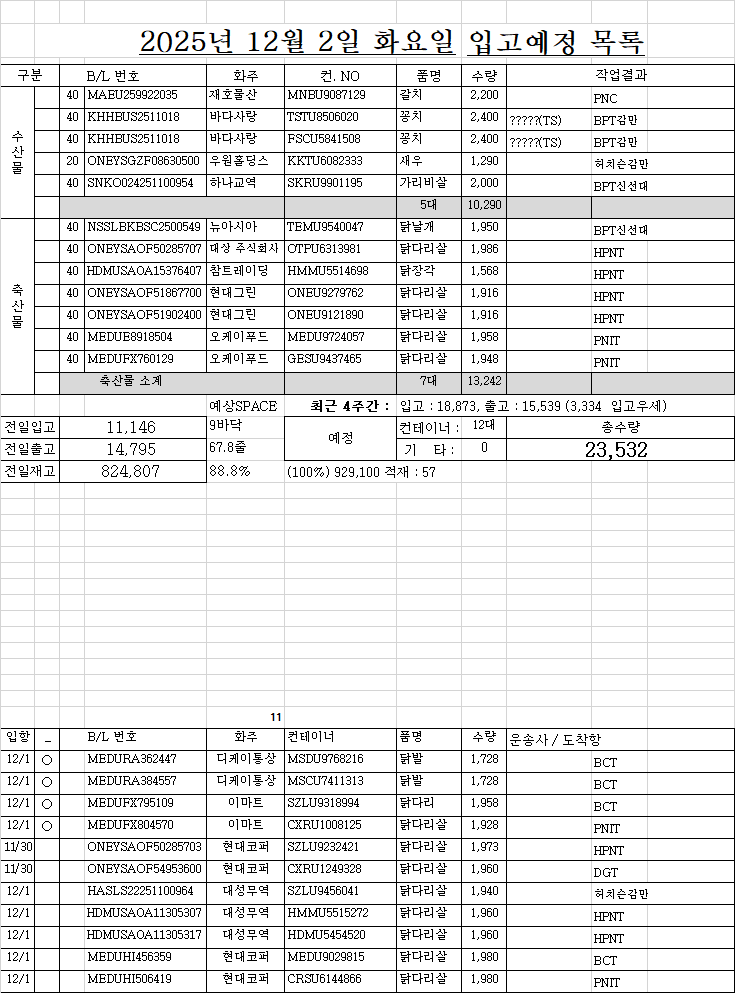
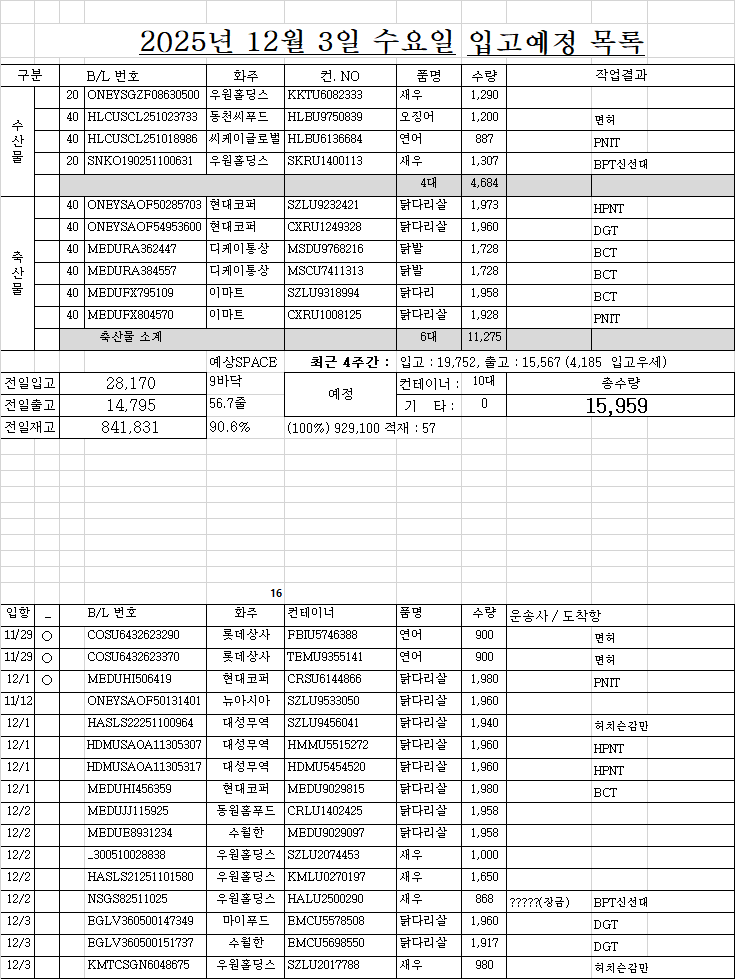
SDFSDFSD

diff --git a/list.html b/list.html
@@ -128,48 +128,49 @@
 </div>
 <!-- ★★★★★★ 따로 빼 놔야한다. 복붙하면 첫칸 비어도 되는데, 여기서는 첫칸비우면 당겨진다. -->
 <!-- ★ 엑셀범위를 브라우저 textarea에 붙여넣으면 첫셀 비어도 제대로 되는데... HTML에 붙여놓은 자료는 처음셀이 비어있으면 당겨짐 -->
-<div class="d-none" id="원본text_리스트1부터w요약열까지">작성	면허	B/LNO.	화주	컨테이너NO.	품명	수량	반입NO.	입항일	구분	도착일	도착시간	구분	운.도VBA	12/01 월 16:58	화찰BL	화찰 선명	화물관리번호	화찰수량	화찰중량	화찰입항	리스트시트기준열	
-1	○	MAEU259922035	재호물산	MNBU9087129	갈치	2,200 	PNC	11/28	1				PNC		MAEU259922035	MAERSK SYDNEY	25MAEU0780I-1050-	2,200 	23,420.00 	2025.11.28	12/01 월 16:58	
-1	○	KHHBUS2511018	바다사랑	TSTU8506020	꽁치	2,400 	?????(TS).BPT감만	11/29	1	TS			?????(TS).BPT감만		KHHBUS2511018	KMTC KEELUNG	25KMTC4077I-1052-0001	4,800 	49,820.00 	2025.11.29	조회정보	
-1		KHHBUS2511018	바다사랑	FSCU5841508	꽁치	2,400 	?????(TS).BPT감만	11/30	1	TS			?????(TS).BPT감만			KMTC KEELUNG					적재	57 
-1	○	ONEYSGZF08630500	우원홀딩스	KKTU6082333	새우	1,290 	허치슨감만	11/30	1			20 	허치슨감만		ONEYSGZF08630500	AS PATRIA	25KMTC4161I-5014-	1,290 	5,945.00 	2025.11.30	4,617 	3줄
-1	○	SNKO024251100954	하나교역	SKRU9901195	가리비살	2,000 	BPT신선대	11/30	1				BPT신선대		SNKO024251100954	SAWASDEE VEGA	25SNKO4517I-0160-0001	2,000 	24,000.00 	2025.12.01	6,156 	4줄
-1	○	NSSLBKBSC2500549	뉴아시아	TEMU9540047	닭날개	1,950 	BPT신선대	11/29	2				BPT신선대		NSSLBKBSC2500549	STARSHIP URSA	25NSSLK107I-3002-	1,950 	24,375.00 	2025.11.29	7,695 	5줄
-1		ONEYSAOF50285707	대상 주식회사	OTPU6313981	닭다리살	1,986 	HPNT	11/30	2				HPNT			ONE APUS					9,234 	6줄
-1	○	HDMUSAOA15376407	참트레이딩	HMMU5514698	닭장각	1,568 	HPNT	11/30	2				HPNT		HDMUSAOA15376407	HYUNDAI FORCE	25HDMUA682I-0019-	1,568 	24,304.00 	2025.11.30		
-1		ONEYSAOF51867700	현대그린	ONEU9279762	닭다리살	1,916 	HPNT	11/30	2				HPNT			ONE APUS					출고/입고 4주간	
-1		ONEYSAOF51902400	현대그린	ONEU9121890	닭다리살	1,916 	HPNT	11/30	2				HPNT			ONE APUS					1일 7/5	5일줄
-1	○	MEDUE8918504	오케이푸드	MEDU9724057	닭다리살	1,958 	PNIT	12/1	2				PNIT		MEDUE8918504	MSC BIANCA	25MSCU2274I-0038-	1,958 	24,486.71 	2025.12.01	15,539 	50.5
-1	○	MEDUFX760129	오케이푸드	GESU9437465	닭다리살	1,948 	PNIT	12/1	2				PNIT		MEDUFX760129	MSC BIANCA	25MSCU2274I-0008-	1,948 	24,433.75 	2025.12.01	19,000 	61.7
-2	○	MEDURA362447	디케이통상	MSDU9768216	닭발	1,728 	BCT	12/1	2				BCT		MEDURA362447	MSC GERMANY	25MSCU3288I-0259-	1,728 	24,537.00 	2025.12.01	내국제외	
-2	○	MEDURA384557	디케이통상	MSCU7411313	닭발	1,728 	BCT	12/1	2				BCT		MEDURA384557	MSC GERMANY	25MSCU3288I-0272-	1,728 	24,537.00 	2025.12.01	구분	대수
-2	○	MEDUFX795109	이마트	SZLU9318994	닭다리	1,958 	BCT	12/1	2				BCT		MEDUFX795109	MSC GERMANY	25MSCU3288I-0221-	1,958 	24,450.69 	2025.12.01	수산	17
-2	○	MEDUFX804570	이마트	CXRU1008125	닭다리살	1,928 	PNIT	12/1	2				PNIT		MEDUFX804570	MSC BIANCA	25MSCU2274I-0009-	1,928 	24,076.04 	2025.12.01	축산	55
-		ONEYSAOF50285703	현대코퍼	SZLU9232421	닭다리살	1,973 	HPNT	11/30	2				HPNT			ONE APUS					합계	72
-		ONEYSAOF54953600	현대코퍼	CXRU1249328	닭다리살	1,960 	DGT	11/30	2				DGT			NYK RUMINA(SX2)						
-		HASLS22251100964	대성무역	SZLU9456041	닭다리살	1,940 	허치슨감만	12/1	2				허치슨감만			SAWASDEE MIMOSA					화주별 요약	
-		HDMUSAOA11305307	대성무역	HMMU5515272	닭다리살	1,960 	HPNT	12/1	2				HPNT			HYUNDAI FAITH					화주	대수
-		HDMUSAOA11305317	대성무역	HDMU5454520	닭다리살	1,960 	HPNT	12/1	2				HPNT			HYUNDAI FAITH					수월한	20
-		MEDUHI456359	현대코퍼	MEDU9029815	닭다리살	1,980 	BCT	12/1	2				BCT			MSC GERMANY					이마트	6
-		MEDUHI506419	현대코퍼	CRSU6144866	닭다리살	1,980 	PNIT	12/1	2				PNIT			MSC BIANCA					우원홀딩스	5
-		MEDUJJ115925	동원홈푸드	CRLU1402425	닭다리살	1,958 		12/2	2							ONE AMAZON					참트레이딩	5
-		MEDUE8931234	수월한	MEDU9029097	닭다리살	1,958 		12/2	2							ONE AMAZON					대성무역	5
-		HLCUSCL251018986	씨케이글로벌	HLBU6136684	연어	887 	PNIT	12/2	1				PNIT			SEASPAN BENEFACTOR					아스트로스	5
-		NSGS82511025	우원홀딩스	HALU2500290	새우	868 	?????(장금).BPT신선대	12/2	1	장금		20 	?????(장금).BPT신선대			SAWASDEE ATLANTIC					현대코퍼	4
-		SNKO190251100631	우원홀딩스	SKRU1400113	새우	1,307 	BPT신선대	12/2	1			20 	BPT신선대			SAWASDEE ATLANTIC					씨케이글로벌	4
-		EGLV360500147349	마이푸드	EMCU5578508	닭다리살	1,960 	DGT	12/3	2				DGT			EVER VAST(NSB)					삼영수산	3
-		EGLV360500151737	수월한	EMCU5698550	닭다리살	1,917 	DGT	12/3	2				DGT			EVER VAST(NSB)					바다사랑	2
-		KMTCSGN6048675	우원홀딩스	SZLU2017788	새우	980 	허치슨감만	12/3	1			20 	허치슨감만			STARSHIP PEGASUS					하나교역	2
-		HASLS22251101339	동일냉장	FBIU5086068	닭고기	1,950 		12/4	2												현대그린	2
-		NSSLSBBSC2500153	씨케이글로벌	MORU1310604	새우	1,800 	BPT신선대	12/4	1				BPT신선대			SPIL NINGSIH					오케이푸드	2
-		HLCUSS5250904671	참트레이딩	BMOU9253059	닭다리살	1,916 	PNIT	12/4	2				PNIT			IQUIQUE EXPRESS					디케이통상	2
+<div class="d-none" id="원본text_리스트1부터w요약열까지">작성	면허	B/LNO.	화주	컨테이너NO.	품명	수량	반입NO.	입항일	구분	도착일	도착시간	구분	운.도VBA	12/02 화 16:21	화찰BL	화찰 선명	화물관리번호	화찰수량	화찰중량	화찰입항	리스트시트기준열	
+1	○	ONEYSGZF08630500	우원홀딩스	KKTU6082333	새우	1,290 		11/30	1			20 	허치슨감만		ONEYSGZF08630500	AS PATRIA	25KMTC4161I-5014-	1,290 	5,945.00 	2025.11.30	12/02 화 16:21	
+1	○	HLCUSCL251023733	동천씨푸드	HLBU9750839	오징어	1,200 	면허	12/2	1						HLCUSCL251023733	SEASPAN BENEFACTOR	25ONEY1501I-6007-	1,200 	24,960.00 	2025.12.02	조회정보	
+1	○	HLCUSCL251018986	씨케이글로벌	HLBU6136684	연어	887 	PNIT	12/2	1				PNIT		HLCUSCL251018986	SEASPAN BENEFACTOR	25ONEY1501I-6003-	887 	24,750.00 	2025.12.02	적재	57 
+1	○	SNKO190251100631	우원홀딩스	SKRU1400113	새우	1,307 	BPT신선대	12/2	1			20 	BPT신선대		SNKO190251100631	SAWASDEE ATLANTIC	25SNKO4546I-6117-	1,307 	5,228.00 	2025.12.02	4,617 	3줄
+1	○	ONEYSAOF50285703	현대코퍼	SZLU9232421	닭다리살	1,973 	HPNT	11/30	2				HPNT		ONEYSAOF50285703	ONE APUS	25ONEY1481I-5028-	1,973 	24,892.00 	2025.11.30	6,156 	4줄
+1	○	ONEYSAOF54953600	현대코퍼	CXRU1249328	닭다리살	1,960 	DGT	11/30	2				DGT		ONEYSAOF54953600	NYK RUMINA	25ONEY1485I-5101-	1,980 	24,948.00 	2025.11.30	7,695 	5줄
+1	○	MEDURA362447	디케이통상	MSDU9768216	닭발	1,728 	BCT	12/1	2				BCT		MEDURA362447	MSC GERMANY	25MSCU3288I-0259-	1,728 	24,537.00 	2025.12.01	9,234 	6줄
+1	○	MEDURA384557	디케이통상	MSCU7411313	닭발	1,728 	BCT	12/1	2				BCT		MEDURA384557	MSC GERMANY	25MSCU3288I-0272-	1,728 	24,537.00 	2025.12.01		
+1	○	MEDUFX795109	이마트	SZLU9318994	닭다리	1,958 	BCT	12/1	2				BCT		MEDUFX795109	MSC GERMANY	25MSCU3288I-0221-	1,958 	24,450.69 	2025.12.01	출고/입고 4주간	
+1	○	MEDUFX804570	이마트	CXRU1008125	닭다리살	1,928 	PNIT	12/1	2	12/2	10:45		PNIT		MEDUFX804570	MSC BIANCA	25MSCU2274I-0009-	1,928 	24,076.04 	2025.12.01	1일 7/5	5일줄
+2	○	COSU6432623290	롯데상사	FBIU5746388	연어	900 	면허	11/29	1						COSU6432623290	QI YUN HE	25COHEY515I-9024-	900 	24,750.00 	2025.11.29	15,539 	50.5
+2	○	COSU6432623370	롯데상사	TEMU9355141	연어	900 	면허	11/29	1						COSU6432623370	QI YUN HE	25COHEY515I-9070-	900 	24,750.00 	2025.11.29	18,873 	61.3
+2	○	MEDUHI506419	현대코퍼	CRSU6144866	닭다리살	1,980 	PNIT	12/1	2				PNIT		MEDUHI506419	MSC BIANCA	25MSCU2274I-0015-	1,980 	24,948.00 	2025.12.01	내국제외	
+		ONEYSAOF50131401	뉴아시아	SZLU9533050	닭다리살	1,960 		11/12	2												구분	대수
+		HASLS22251100964	대성무역	SZLU9456041	닭다리살	1,940 	허치슨감만	12/1	2				허치슨감만			SAWASDEE MIMOSA					수산	24
+		HDMUSAOA11305307	대성무역	HMMU5515272	닭다리살	1,960 	HPNT	12/1	2				HPNT			HYUNDAI FAITH					축산	49
+		HDMUSAOA11305317	대성무역	HDMU5454520	닭다리살	1,960 	HPNT	12/1	2				HPNT			HYUNDAI FAITH					합계	73
+		MEDUHI456359	현대코퍼	MEDU9029815	닭다리살	1,980 	BCT	12/1	2				BCT			MSC GERMANY						
+		MEDUJJ115925	동원홈푸드	CRLU1402425	닭다리살	1,958 		12/2	2							ONE AMAZON					화주별 요약	
+		MEDUE8931234	수월한	MEDU9029097	닭다리살	1,958 		12/2	2							ONE AMAZON					화주	대수
+		_300510028838	우원홀딩스	SZLU2074453	새우	1,000 		12/2	1			20 									수월한	20
+		HASLS21251101580	우원홀딩스	KMLU0270197	새우	1,650 		12/2	1			20 									우원홀딩스	9
+		NSGS82511025	우원홀딩스	HALU2500290	새우	868 	?????(장금).BPT신선대	12/2	1	장금		20 	?????(장금).BPT신선대			SAWASDEE ATLANTIC					씨케이글로벌	8
+		EGLV360500147349	마이푸드	EMCU5578508	닭다리살	1,960 	DGT	12/3	2				DGT			EVER VAST(NSB)					이마트	6
+		EGLV360500151737	수월한	EMCU5698550	닭다리살	1,917 	DGT	12/3	2				DGT			EVER VAST(NSB)					대성무역	5
+		KMTCSGN6048675	우원홀딩스	SZLU2017788	새우	980 	허치슨감만	12/3	1			20 	허치슨감만			STARSHIP PEGASUS					아스트로스	5
+		HASLS22251101339	동일냉장	FBIU5086068	닭고기	1,950 		12/4	2												현대코퍼	4
+		NSSLSBBSC2500153	씨케이글로벌	MORU1310604	새우	1,800 	BPT신선대	12/4	1				BPT신선대			SPIL NINGSIH					참트레이딩	4
+		ASC0486867	우원홀딩스	CXRU1646428	새우	870 		12/4	1			20 									삼영수산	3
+		ASC0487595	우원홀딩스	CGMU3080342	새우	751 		12/4	1			20 									디케이통상	2
+		HLCUSS5250904671	참트레이딩	BMOU9253059	닭다리살	1,916 	PNIT	12/4	2				PNIT			IQUIQUE EXPRESS					롯데상사	2
 		HLCUSS5250904682	참트레이딩	HLBU9520266	닭다리살	1,916 	PNIT	12/4	2				PNIT			IQUIQUE EXPRESS					동원홈푸드	2
-		HLCUPN4251056200	동원홈푸드	HLBU9238479	닭다리살	1,951 	PNIT	12/5	2				PNIT			ONE SAPPHIRE					재호물산	1
+		HLCUPN4251056200	동원홈푸드	HLBU9238479	닭다리살	1,951 	PNIT	12/5	2				PNIT			ONE SAPPHIRE					동천씨푸드	1
 		HDMUSCLA55094000	씨케이글로벌	HMMU5463585	연어필렛	934 	PNIT	12/5	1				PNIT			ONE SAPPHIRE					뉴아시아	1
-		NSSLHPBSC2501549	우원홀딩스	SZLU2028801	한치	866 		12/5	1			20 									대상 주식회사	1
-		LMM0550707	삼영수산	FBIU5075525	오징어	1,100 	BNCT	12/6	1				BNCT			CMA CGM XIAMEN					마이푸드	1
-		LMM0550709	삼영수산	TRIU8124818	오징어	1,150 	BNCT	12/6	1				BNCT			CMA CGM XIAMEN					동일냉장	1
-		EGLV360500161333	수월한	EMCU5649216	닭다리살	1,960 		12/6	2							 EVER VIVE					합계	74
+		MEDUFJ972241	씨케이글로벌	MEDU9026270	북방대합	683 		12/5	1												마이푸드	1
+		MEDUFJ972399	씨케이글로벌	MSDU9026270	날치알등	1,372 		12/5	1												동일냉장	1
+		NSSLSBBSC2500158	씨케이글로벌	SEKU9411290	새우	2,130 		12/5	1												하나교역	1
+		NSSLSBBSC2500159	씨케이글로벌	MORU1301557	새우	1,800 		12/5	1												합계	75
+		NSSLHPBSC2501549	우원홀딩스	SZLU2028801	한치	866 		12/5	1			20 										
+		LMM0550707	삼영수산	FBIU5075525	오징어	1,100 	BNCT	12/6	1				BNCT			CMA CGM XIAMEN						
+		LMM0550709	삼영수산	TRIU8124818	오징어	1,150 	BNCT	12/6	1				BNCT			CMA CGM XIAMEN						
+		EGLV360500161333	수월한	EMCU5649216	닭다리살	1,960 		12/6	2							 EVER VIVE						
 		MEDUJW038379	씨케이글로벌	MSDU9886841	열빙어알	1,100 	PNIT	12/6	1				PNIT			MSC ANNABELLA						
 		MEDUFX853510	이마트	MSDU9807676	닭다리살	1,947 	메일	12/6	2													
 		MEDUFX795307	이마트	TRIU8583611	닭다리살	1,915 	메일	12/8	2													
